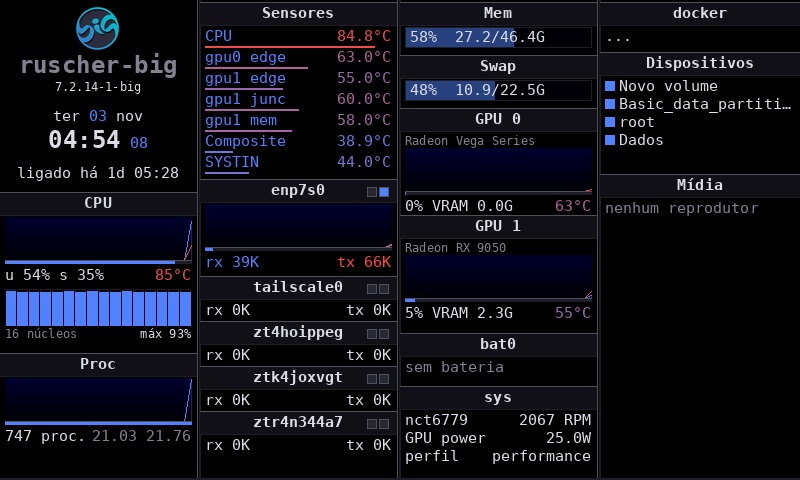
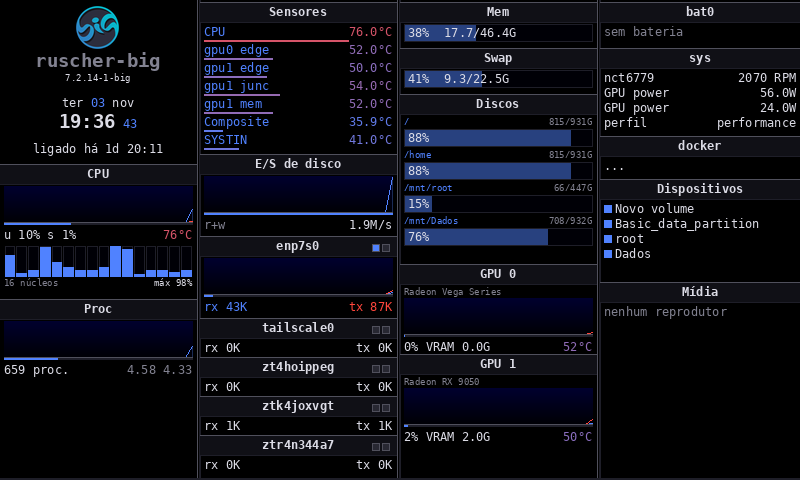
v4.2.1: README, docs and PKGBUILD for the GKrellM and performance fixes
- version 4.2.1; README: 4.2.1 news, GKrellM layout and partitions,
  performance profile table (render and telemetry rates per profile),
  serial transfer numbers for Turing rev. A, ProtectHome=read-only,
  troubleshooting rows, 633 tests, docker optional dependency
- docs: security table and GKrellM architecture row follow the new
  behaviour
- screenshots: GKrellM regenerated with the new layout, plus 480x320 with
  four partitions (tools/make_screenshots.sh)
- PKGBUILD: depend on bash (the /usr/bin launchers), flagged by namcap

Changed region(s): [[0.0, 0.0, 1.0, 0.9688]]

diff --git a/usr/share/big-screen-monitor-display/bsmd/__init__.py b/usr/share/big-screen-monitor-display/bsmd/__init__.py
@@ -4,7 +4,7 @@ The package is intentionally free of GTK imports so that the system service,
 the configuration window and the test-suite can share it.
 """
 
-__version__ = "4.2.0"
+__version__ = "4.2.1"
 
 APP_ID = "big-screen-monitor-display"
 SERVICE_NAME = "big-screen-monitor-display.service"

diff --git a/README.md b/README.md
@@ -6,12 +6,12 @@
 
 **Monitor de hardware livre para pequenos displays USB no Linux — com temas, autorrecuperação, o Brother Away e o Kojiro, que transforma qualquer papel de parede em painel de hardware.**
 
-![Versão](https://img.shields.io/badge/vers%C3%A3o-4.2.0-2ea44f)
+![Versão](https://img.shields.io/badge/vers%C3%A3o-4.2.1-2ea44f)
 ![Licença](https://img.shields.io/badge/licen%C3%A7a-GPL--3.0-blue)
 ![Python](https://img.shields.io/badge/python-%E2%89%A5%203.10-3776ab?logo=python&logoColor=white)
 ![GTK4](https://img.shields.io/badge/GTK4-libadwaita-4a86cf?logo=gnome&logoColor=white)
 ![systemd](https://img.shields.io/badge/systemd-watchdog-30d475)
-![Testes](https://img.shields.io/badge/testes-617%20passando-success)
+![Testes](https://img.shields.io/badge/testes-633%20passando-success)
 
 <img src="docs/images/banner.png" alt="Brother Away de manhã, gritando AWAAAAAY depois do terceiro coco, e dormindo à noite" width="100%"/>
 
@@ -40,6 +40,14 @@ Como usuário fiel de Linux, ele não pretendia mudar de sistema por causa de um
 ---
 
 <a id="novidades"></a>
+
+## ✨ Novidades da 4.2.1 — GKrellM completo e perfis de desempenho de verdade
+
+- **GKrellM mostra todos os módulos ligados.** Em 480×320 só cabiam Relógio, CPU, Processos e Sensores — Discos, Memória, Swap, Rede e GPU sumiam sem aviso, e "Partições listadas" não tinha efeito. Agora o layout procura a maior fonte em que tudo cabe, acrescenta colunas (no modo automático) e achata os gráficos antes de abrir mão de qualquer módulo.
+- **Partições de verdade.** `/` e `/home` em subvolumes btrfs aparecem separados, `/boot/efi` entra no fim da lista, e montagens internas (`@swapfile`, `/var/tmp`, as do próprio isolamento do serviço) não poluem mais a lista. O serviço passou a enxergar o `/home` (somente leitura).
+- **Rede e E/S de disco não ficam mais congeladas.** Dentro do isolamento do serviço a leitura das interfaces falhava em todo ciclo, e as taxas viravam médias desde o início do serviço; a lista de interfaces do GKrellM ficava vazia. Agora o estado e a velocidade das interfaces vêm do `/sys`.
+- **Perfis de desempenho valem para todos os temas.** Econômico, Equilibrado e Fluido mudam a frequência de coleta (2 s · 1 s · 0,5 s) e de desenho dos temas de painel (Padrão, GKrellM, Planet, Computador Antigo e o Kojiro estático), não só dos animados. A página Desempenho mostra o alvo real de cada tema.
+- **Até 65% menos dados nos displays seriais lentos.** No Turing rev. A (~190 KB/s) só os pixels que mudaram vão para a tela, e não blocos inteiros de 48×20: no GKrellM 480×320, de 66 KB para 23 KB por atualização (~360 ms → ~125 ms).
 
 ## ✨ Novidades da 4.2 — Kojiro
 
@@ -253,6 +261,10 @@ Configurações antigas com Escuro, Claro, Neon ou Cyberpunk são migradas autom
 <td align="center" width="50%"><img src="docs/images/theme-planet-amber.png" alt="Planet em âmbar"/><br/><b>Planet</b> · destaque âmbar</td>
 </tr>
 <tr>
+<td align="center"><img src="docs/images/theme-gkrellm-480.png" alt="GKrellM em 480×320 com quatro partições"/><br/><b>GKrellM</b> · 480×320 com 4 partições</td>
+<td align="center"><img src="docs/images/theme-gkrellm-portrait.png" alt="GKrellM clássico em retrato"/><br/><b>GKrellM</b> · Clássico, retrato</td>
+</tr>
+<tr>
 <td align="center"><img src="docs/images/theme-old_computer-slate.png" alt="Computador Antigo Ardósia com disco e swap"/><br/><b>Computador Antigo</b> · Ardósia, 6 cartões</td>
 <td align="center"><img src="docs/images/theme-planet.png" alt="Planet azul"/><br/><b>Planet</b> · Sol e Lua nas posições reais</td>
 </tr>
@@ -260,7 +272,7 @@ Configurações antigas com Escuro, Claro, Neon ou Cyberpunk são migradas autom
 
 | Tema | O que mudou | Opções |
 | --- | --- | --- |
-| **GKrellM** | Reconstruído em módulos que medem a própria altura; fontes acompanham a largura da coluna; módulos que não cabem são omitidos. Os módulos que antes **inventavam dados** (PPP/VLAN/inet0 desenhavam o gráfico da CPU, "sys" mostrava voltagens fixas) agora mostram interfaces, sensores e ventoinhas **reais** ou "indisponível". | estilo Urlicht/Clássico/Cyber-Red · colunas (auto, 1–4) · tamanho do texto · altura dos gráficos · partições listadas · 20 módulos (host, data, hora, tempo ligado, CPU, núcleos, processos e carga, temperaturas, E/S de disco, interface principal, outras interfaces, memória, swap, partições, GPU, bateria, ventoinhas e energia, Docker, mídias removíveis, reprodutor) |
+| **GKrellM** | Reconstruído em módulos que medem a própria altura. O layout escolhe a maior fonte (até 9 px) em que **todos os módulos ligados** cabem, acrescentando colunas no modo automático e achatando os gráficos; só se nem assim couber, as listas de Discos e Sensores ficam mais curtas e os últimos módulos saem — nunca há sobreposição. Partições: `/`, `/home` e mídias montadas, com subvolumes btrfs distintos separados e `/boot` por último. Os módulos que antes **inventavam dados** (PPP/VLAN/inet0 desenhavam o gráfico da CPU, "sys" mostrava voltagens fixas) agora mostram interfaces, sensores e ventoinhas **reais** ou "indisponível". | estilo Urlicht/Clássico/Cyber-Red · colunas (auto, 1–4) · tamanho do texto · altura dos gráficos · partições listadas · 20 módulos (host, data, hora, tempo ligado, CPU, núcleos, processos e carga, temperaturas, E/S de disco, interface principal, outras interfaces, memória, swap, partições, GPU, bateria, ventoinhas e energia, Docker, mídias removíveis, reprodutor) |
 | **Planet** | Sem sobreposição em telas pequenas e no retrato; RAM na ordem certa (usado/total); o texto fixo "SUNNY / WIND 3 / 22°C" e o "VOLUME 28%" **fictícios** viraram tempo ligado e uso do disco; "GPU CLOCK" mostra o clock real da GPU. | cor de destaque (azul, verde, âmbar, violeta, vermelho — a Terra mantém as cores reais) · lado noturno · luzes das cidades · trajetórias do Sol e da Lua · Lua · segundos |
 | **Computador Antigo** | Não quebra mais em 240×320; sem textos sobrepostos em 320×240; cartões se adaptam à altura. | 4 paletas (Cinza clássico, Ardósia, Âmbar, Lilás) · barra de título · barra de status · segundos · cartões de GPU/VRAM · cartões de disco/swap |
 
@@ -284,10 +296,10 @@ Configurações antigas com Escuro, Claro, Neon ou Cyberpunk são migradas autom
 - **Meus Displays:** todos os displays detectados, com nome, modelo/protocolo (automático ou manual), nível de confiança, tema, orientação, brilho e desempenho próprios, firmware e capacidades, sensores do WeAct, padrões de teste, *Identificar* e *Reconectar* — mais os padrões para todos os displays e o início com o computador.
 - **Temas:** galeria com prévia ao vivo usando o mesmo renderizador do display.
 - **Aba do tema aplicado** (Padrão, GKrellM, Planet, Computador Antigo, Brother Away ou Kojiro): todas as opções do tema, com prévia própria — no Kojiro, o editor visual completo. Ao aplicar outro tema, a aba troca sozinha e um aviso oferece "Personalizar".
-- **Desempenho:** perfil (Automático, Econômico, Equilibrado, Fluido) e números reais do serviço: CPU, memória, quadros por segundo, tempo de transferência, dados enviados.
+- **Desempenho:** perfil (Automático, Econômico, Equilibrado, Fluido) e números reais do serviço: CPU, memória, quadros por segundo (com o alvo real do tema aplicado), tempo de transferência, dados enviados.
 - **Diagnóstico:** estado atual, *Diagnosticar meu display* com correções seguras, *Recuperar o display agora*, reiniciar o serviço, eventos recentes e exportar relatório.
 
-Alterações são aplicadas com **Aplicar** e valem em até 1 s; *Descartar* volta ao que está salvo. Funciona com teclado e leitor de tela, nos modos claro e escuro do sistema.
+Alterações são aplicadas com **Aplicar** e valem em até 1 s; *Descartar* volta ao que está salvo. Depois de atualizar o pacote, feche e abra a janela para a prévia usar a versão nova. Funciona com teclado e leitor de tela, nos modos claro e escuro do sistema.
 
 <details>
 <summary><b>Abas dos outros temas</b></summary>
@@ -325,9 +337,9 @@ Atualizações preservam as configurações e **respeitam o serviço desativado*
 
 | Tipo | Pacotes |
 | --- | --- |
-| Execução | `python` ≥ 3.10, `python-pillow`, `python-numpy`, `python-psutil`, `python-pyusb`, `libusb`, `python-pyserial`, `pciutils`, `librsvg`, `fontconfig`, `systemd`, `polkit` |
+| Execução | `bash`, `python` ≥ 3.10, `python-pillow`, `python-numpy`, `python-psutil`, `python-pyusb`, `libusb`, `python-pyserial`, `pciutils`, `librsvg`, `fontconfig`, `systemd`, `polkit` |
 | Janela | `python-gobject`, `python-cairo`, `glib2`, `gtk4`, `libadwaita` ≥ 1.6, `hicolor-icon-theme` |
-| Opcionais | `lm_sensors` (sensores extras), `python-pystray` (ícone de bandeja em execução manual), `libcanberra` (som ao aplicar), `pipewire-audio` / `libpulse` / `alsa-utils` (efeitos sonoros), `adwaita-fonts` (fonte do GKrellM), `playerctl` (módulo de mídia do GKrellM), `python-cryptography` (cabeçalho mais rápido nos Turing USB) |
+| Opcionais | `lm_sensors` (sensores extras), `python-pystray` (ícone de bandeja em execução manual), `libcanberra` (som ao aplicar), `pipewire-audio` / `libpulse` / `alsa-utils` (efeitos sonoros e módulo de volume do GKrellM), `adwaita-fonts` (fonte do GKrellM), `playerctl` (módulo de mídia do GKrellM), `docker` (contagem de contêineres no GKrellM), `python-cryptography` (cabeçalho mais rápido nos Turing USB) |
 | Build | `gettext`, `git` |
 
 ---
@@ -381,7 +393,7 @@ Exemplo de `systemctl status`:
 ```mermaid
 flowchart LR
     U["Descoberta<br/>sysfs a cada 2 s"] --> H
-    T["Coleta<br/>telemetria 1 s"] --> S[("SYSTEM_STATS<br/>compartilhado")]
+    T["Coleta<br/>telemetria 0,5–2 s (perfil)"] --> S[("SYSTEM_STATS<br/>compartilhado")]
     S --> R1["Sessão A: tema"] --> X1["Transporte A"] --> D1(["AX206"])
     S --> R2["Sessão B: tema"] --> X2["Transporte B"] --> D2(["WeAct 0,96&quot;"])
     H["Supervisor"] -. heartbeats .-> T
@@ -409,9 +421,12 @@ Erro transitório degrada; dois seguidos ou desconexão reabrem o driver, redete
 ```ini
 Type=notify · WatchdogSec=30 · Restart=on-failure · RestartSteps=6 · RestartMaxDelaySec=300
 DynamicUser=yes · SupplementaryGroups=big-screen-monitor · DevicePolicy=closed
-ProtectSystem=strict · ProtectHome=yes · CapabilityBoundingSet= · SystemCallFilter=@system-service
+ProtectSystem=strict · ProtectHome=read-only · CapabilityBoundingSet= · SystemCallFilter=@system-service
+RestrictAddressFamilies=AF_UNIX AF_NETLINK · NoNewPrivileges=yes
 Nice=10 · CPUWeight=20 · IOSchedulingClass=idle · MemoryMax=320M
 ```
+
+`ProtectHome=read-only` (o padrão do systemd para `DynamicUser`) deixa as montagens do `/home` visíveis para a lista de partições e os elementos de disco, sem permitir escrita. Sem sockets de rede, as interfaces são lidas do `/sys/class/net`.
 
 Sinais: `SIGTERM` encerra mostrando "Monitoramento parado" (em vez de uma imagem congelada), `SIGUSR1` reconecta, `SIGHUP` recarrega as configurações.
 
@@ -436,7 +451,18 @@ Sinais: `SIGTERM` encerra mostrando "Monitoramento parado" (em vez de uma imagem
 | Envio | quadro inteiro (768 KB, 115 ms) | só o que mudou (canto: ~4 ms) |
 | Volta após desconexão | nunca | 1,1–2,1 s |
 
-**FPS adaptativo:** o perfil Automático limita os temas animados a 8 fps (as poses são desenhadas "em dois"), reduz para manter o pipeline abaixo de 60% de ocupação e cai para 4 fps na bateria.
+**Perfis de desempenho:**
+
+| Perfil | Temas animados (Brother Away, Kojiro animado) | Temas de painel (Padrão, GKrellM, Planet, Computador Antigo) | Kojiro estático | Coleta de telemetria |
+| --- | --- | --- | --- | --- |
+| Econômico | até 4 fps | 1 desenho/s | 1/s | a cada 2 s |
+| Automático | até 8 fps, adaptativo | 2/s | 1/s | a cada 1 s |
+| Equilibrado | até 8 fps | 2/s | 1/s | a cada 1 s |
+| Fluido | até 15 fps | 4/s | 2/s | a cada 0,5 s |
+
+O Automático limita os temas animados a 8 fps (as poses são desenhadas "em dois"), reduz para manter o pipeline abaixo de 60% de ocupação, respeita o limite de cada transporte lento e cai para 4 fps na bateria. Os desenhos dos temas de painel são alinhados ao relógio, então os segundos nunca atrasam. Com vários displays, vale o perfil mais rápido entre eles para a coleta.
+
+**Displays seriais lentos (Turing rev. A, ~190 KB/s):** uma tela cheia de 480×320 leva ~1,6 s, por isso só os pixels que mudaram são enviados (retângulos recortados ao pixel). Medido no GKrellM 480×320: 23 KB e ~125 ms por atualização (antes 66 KB e ~360 ms).
 
 ### Traduções
 
@@ -458,6 +484,10 @@ Textos marcados com gettext (`locale/big-screen-monitor-display.pot`, 929 mensag
 | Aviso de permissões | Uma regra udev local em `/etc/udev/rules.d/` pode estar sobrepondo a do pacote (por exemplo, `MODE="0666"`). Remova-a e reconecte o display. |
 | Serviço sem watchdog/isolamento | Há uma cópia antiga em `/etc/systemd/system/big-screen-monitor-display.service`; remova-a e rode `sudo systemctl daemon-reload`. O diagnóstico avisa. |
 | Quero gastar menos | **Desempenho → Econômico**, ou desligue a animação do Brother Away. |
+| GKrellM com letras pequenas ou listas encurtadas | Há mais módulos ligados do que cabem na tela. Desligue módulos que não usa na aba **GKrellM**, reduza "Partições listadas" ou use colunas automáticas. |
+| Partição do `/home` não aparece | Confira se o serviço usa o arquivo do pacote: `systemctl show -p ProtectHome big-screen-monitor-display` deve dizer `read-only`. Uma cópia antiga em `/etc/systemd/system/` sobrepõe o pacote (veja acima). |
+| Rede ou E/S de disco parados | `main.py --status`: o campo `sensor_errors` deve estar vazio. Desde a 4.2.1 as interfaces são lidas do `/sys`; atualize o pacote. |
+| Prévia da janela diferente do display | A janela foi aberta antes de uma atualização: feche e abra de novo. |
 | Pedir ajuda | **Diagnóstico → Exportar diagnóstico** gera um relatório com o estado e os logs. |
 
 ---
@@ -465,13 +495,13 @@ Textos marcados com gettext (`locale/big-screen-monitor-display.pot`, 929 mensag
 ## 🧪 Desenvolvimento
 
 ```bash
-python3 -m pytest -q tests                                  # 617 testes, sem hardware
+python3 -m pytest -q tests                                  # 633 testes, sem hardware
 ./tools/make_screenshots.sh                                 # regenera docs/images
 python3 usr/share/big-screen-monitor-display/main.py --simulate 480x320 --snapshot /tmp/f.png
 BSM_CONFIG=/tmp/s.json python3 usr/share/big-screen-monitor-display/config_gui.py
 ```
 
-Os testes cobrem configurações, conversão e retângulos, todos os temas em 10 resoluções nas duas orientações e em tela redonda, os bytes de cada protocolo comparados com a referência, detecção e níveis de confiança, vários displays com hot-plug e falha isolada, drivers com USB/serial falsos, máquina de estados, pipeline com falhas injetadas (desconexão, timeout, travamento, falha persistente), assistente Polkit, as 14 histórias do Brother Away e um dia simulado. A CI roda em `.github/workflows/tests.yml`.
+Os testes cobrem configurações, conversão e retângulos, todos os temas em 10 resoluções nas duas orientações e em tela redonda, os bytes de cada protocolo comparados com a referência, o layout do GKrellM (todos os módulos e partições em 480×320, listas encurtadas sem sobreposição), partições btrfs dentro do isolamento do serviço, perfis de desempenho, retângulos recortados ao pixel, detecção e níveis de confiança, vários displays com hot-plug e falha isolada, drivers com USB/serial falsos, máquina de estados, pipeline com falhas injetadas (desconexão, timeout, travamento, falha persistente), assistente Polkit, as 14 histórias do Brother Away e um dia simulado. A CI roda em `.github/workflows/tests.yml`.
 
 ### Estrutura
 

diff --git a/docs/06-arquitetura-temas.md b/docs/06-arquitetura-temas.md
@@ -55,7 +55,7 @@ Problemas encontrados ao renderizar todos os temas em 320×240, 480×320,
 | Tema | Problema | Solução |
 | --- | --- | --- |
 | Dark/Light/Neon/Cyberpunk | título sobre o relógio, taxas de rede sobre o relógio, temperatura colada na % da CPU, nome da GPU sobre "CORE", texto minúsculo em 320×240 | tema Padrão novo: cada texto é medido (`fit()` com reticências), itens opcionais saem por prioridade, fontes derivam do espaço disponível |
-| GKrellM | fontes fixas (16/20/26 px) colidindo em colunas estreitas; PPP/VLAN/inet0 desenhavam o histórico da CPU como tráfego; "sys" mostrava voltagens fixas sem sensores; dispositivos eram uma lista fixa | módulos que medem a própria altura; fonte monoespaçada (DejaVu Sans Mono incluída) proporcional à coluna; módulos que não cabem são omitidos; dados reais por interface (`net_ifaces`), sensores e ventoinhas reais (`sensors`), montagens removíveis reais |
+| GKrellM | fontes fixas (16/20/26 px) colidindo em colunas estreitas; PPP/VLAN/inet0 desenhavam o histórico da CPU como tráfego; "sys" mostrava voltagens fixas sem sensores; dispositivos eram uma lista fixa | módulos que medem a própria altura; fonte monoespaçada (DejaVu Sans Mono incluída); layout que procura a maior fonte (mín. 9 px), colunas e altura de gráfico em que todos os módulos ligados cabem, encurtando Discos e Sensores e omitindo os últimos módulos só se nem assim couber (4.2.1); dados reais por interface (`net_ifaces`), sensores e ventoinhas reais (`sensors`), montagens removíveis reais |
 | Planet | piso de escala 0,58 desenhava o layout de 464×278 numa tela de 320×240; no retrato o título cortado atrás do cartão; RAM "total / usado"; anel de % sobreposto; "SUNNY / WIND 3 / 22°C" e "VOLUME 28%" fixos; "GPU CLOCK" sempre "--" | renderização na escala mínima de projeto + redução proporcional; título posicionado pela altura real da fonte; ordem correta; % fora do anel quando não cabe; tempo ligado/host e uso do disco; clock real via `pp_dpm_sclk` |
 | Computador Antigo | `ValueError` em 240×320 (ícones com margens fixas de 12 px); `CPU92%` sobreposto em 320×240; "HISTORY 60S" (são 30 amostras) e "O: OVERLAY" (atalho inexistente) | ícones proporcionais com tamanho mínimo seguro; escala mínima + redução; cartões sem espaço omitem rodapé/modelo; textos corretos |
 | Todos | `get_svg_icon()` corrompia cores começando com `ff…f` (`#ffff00` → `#ffff0000`) e o ícone sumia | substituição única e exata da cor |

diff --git a/docs/04-seguranca-permissoes.md b/docs/04-seguranca-permissoes.md
@@ -8,7 +8,7 @@
 | Acesso aos painéis | udev `MODE="0666"` (qualquer processo local) | `0660`, grupo `big-screen-monitor` + `uaccess`, só para os IDs/seriais das famílias suportadas (4.1: o serviço saiu do grupo `uucp`) |
 | Operações administrativas | sudoers `%wheel NOPASSWD` restart/enable/disable | Polkit + helper com verbos fixos (sudoers removido) |
 | Configurações | serviço lia o **primeiro** `/home/*` | `/etc/big-screen-monitor-display/settings.json`, fonte única |
-| Isolamento | `ProtectSystem=full`, `ProtectHome=read-only` | `ProtectSystem=strict`, `ProtectHome=yes`, `DevicePolicy=closed`, filtro de syscalls, sem capabilities |
+| Isolamento | `ProtectSystem=full`, `ProtectHome=read-only` | `ProtectSystem=strict`, `ProtectHome=read-only` (4.2.1; `yes` escondia as partições do `/home`), `DevicePolicy=closed`, filtro de syscalls, sem capabilities |
 
 ## Serviço sem root
 
